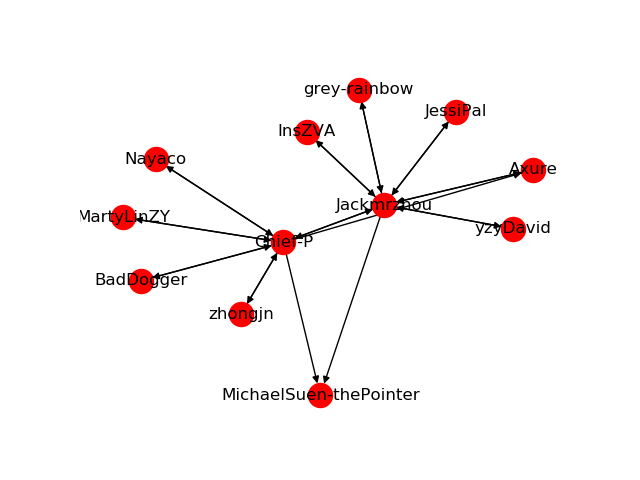
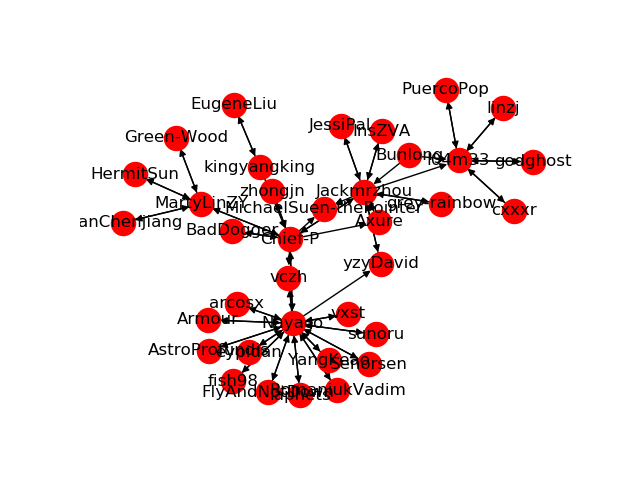
forced-directed graph

Changed region(s): [[0.125, 0.1562, 0.9062, 0.875]]

diff --git a/datafetch.py b/datafetch.py
@@ -97,7 +97,7 @@ def count_layer(src):
 
 def display(g, username):
 	plt.subplot(111)
-	nx.draw(g, with_labels=True)
+	nx.draw_kamada_kawai(g, with_labels=True) # forced-directed
 	plt.savefig(username + ".png")
 	plt.show()
 
@@ -118,7 +118,7 @@ def main():
 			q.enqueue(f)
 
 	remove_redundance()
-	if max_layer < 3:
+	if max_layer < 4:
 		display(dg, username)
 	# some fuckin analysis of dg here
 

diff --git a/README.md b/README.md
@@ -2,4 +2,4 @@
 
 Build your GitHub circle
 
-Visualization powered by [NetWorkX](https://networkx.github.io/documentation/stable/index.html)
+Visualization powered by [NetworkX](https://networkx.github.io/documentation/stable/index.html)
